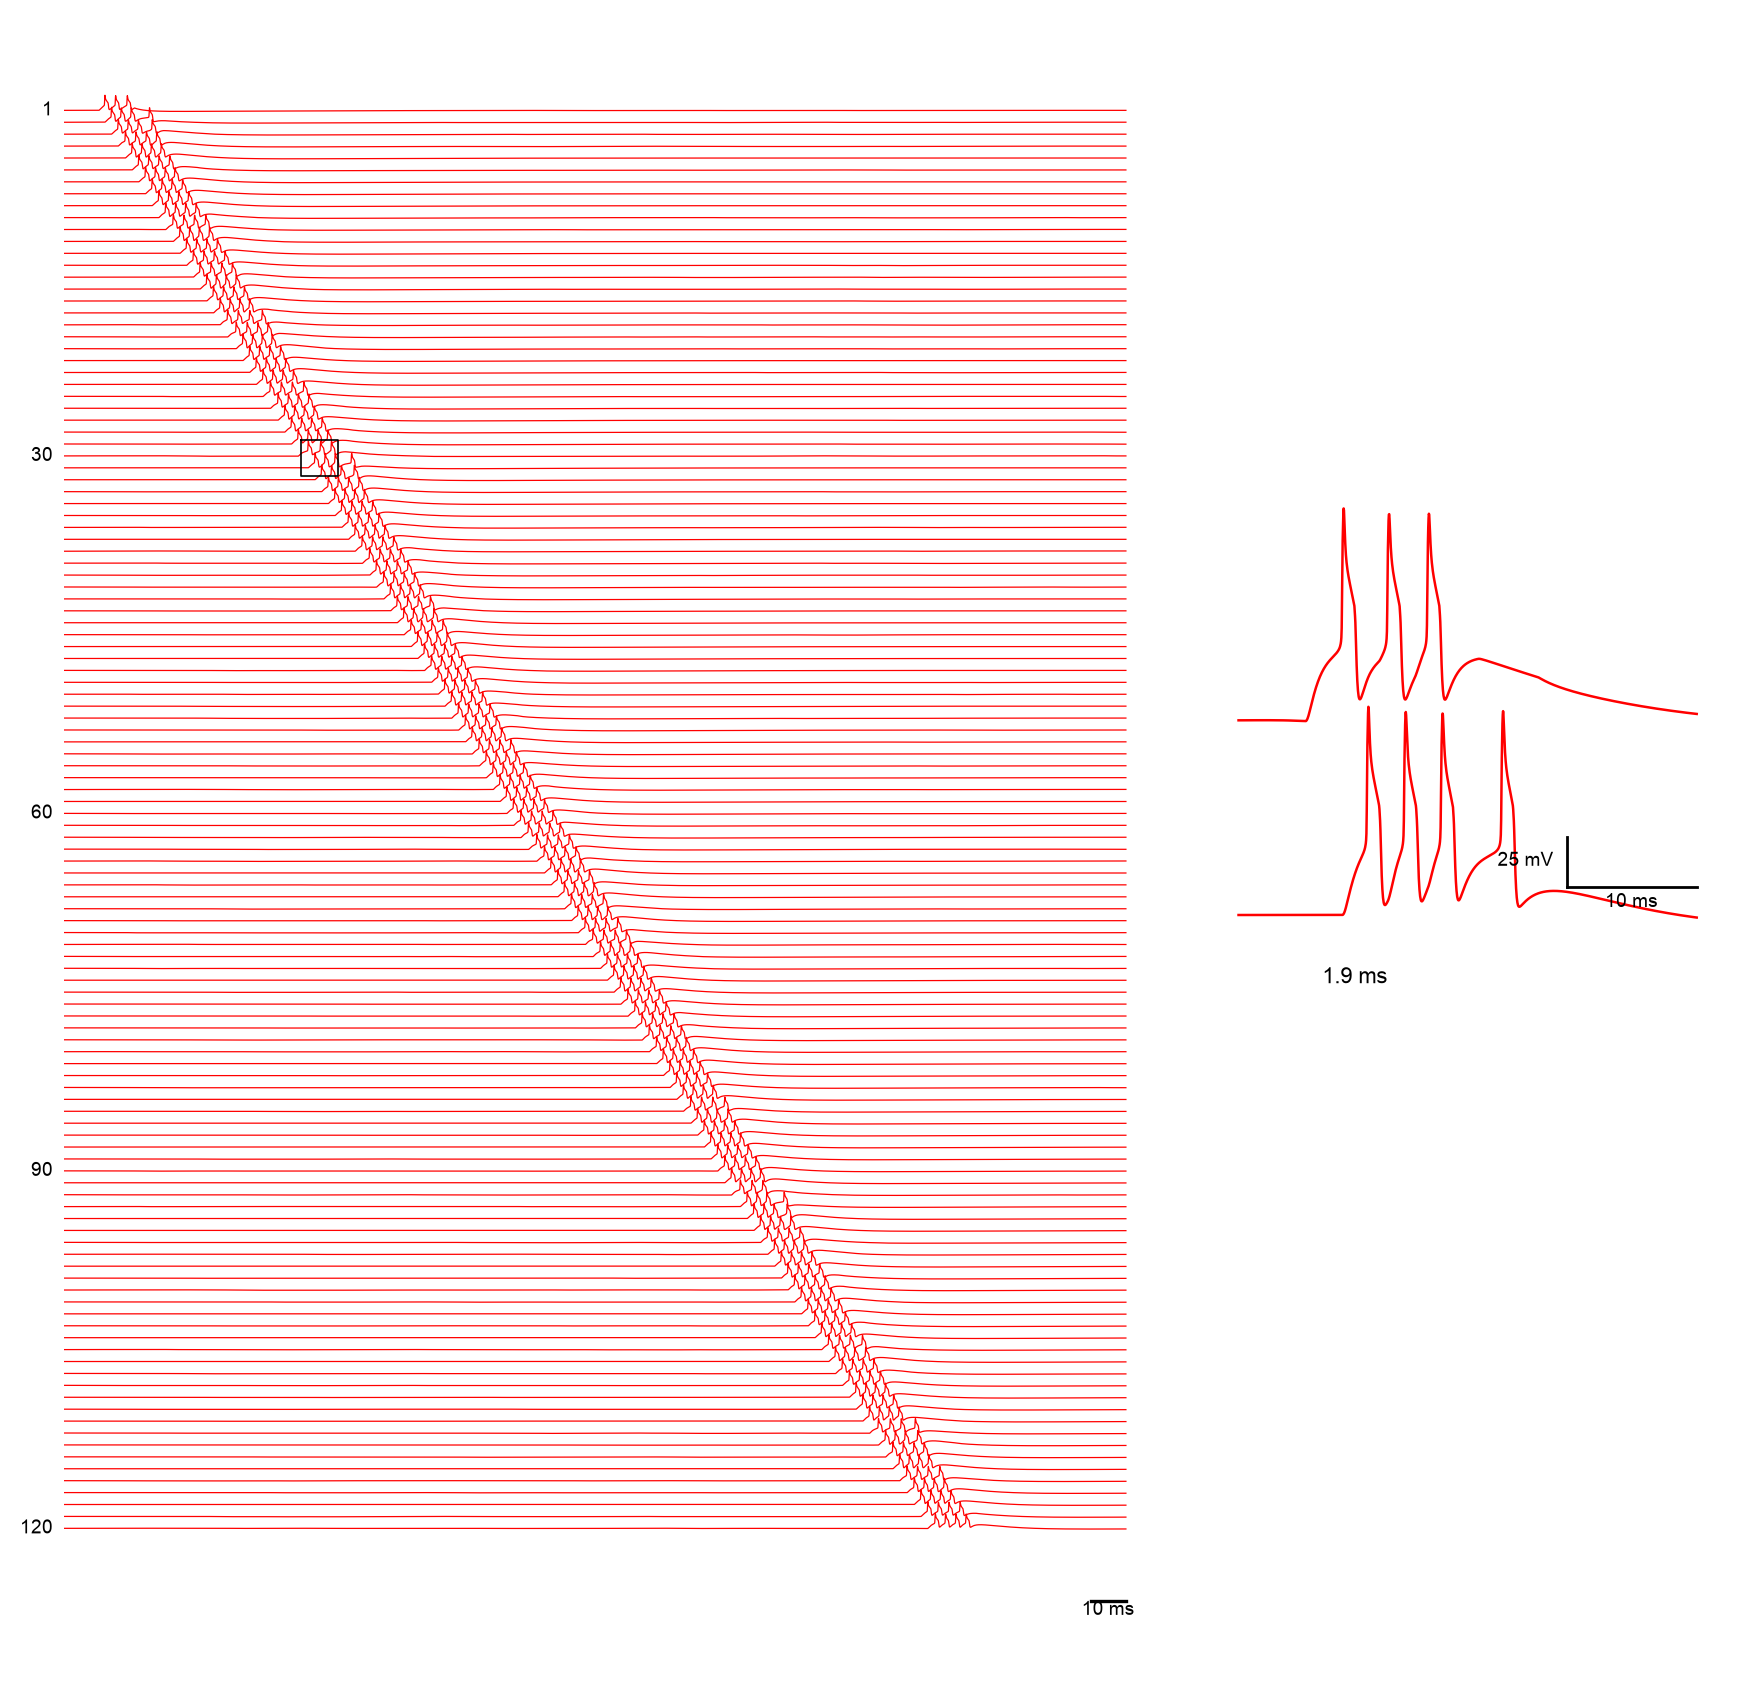
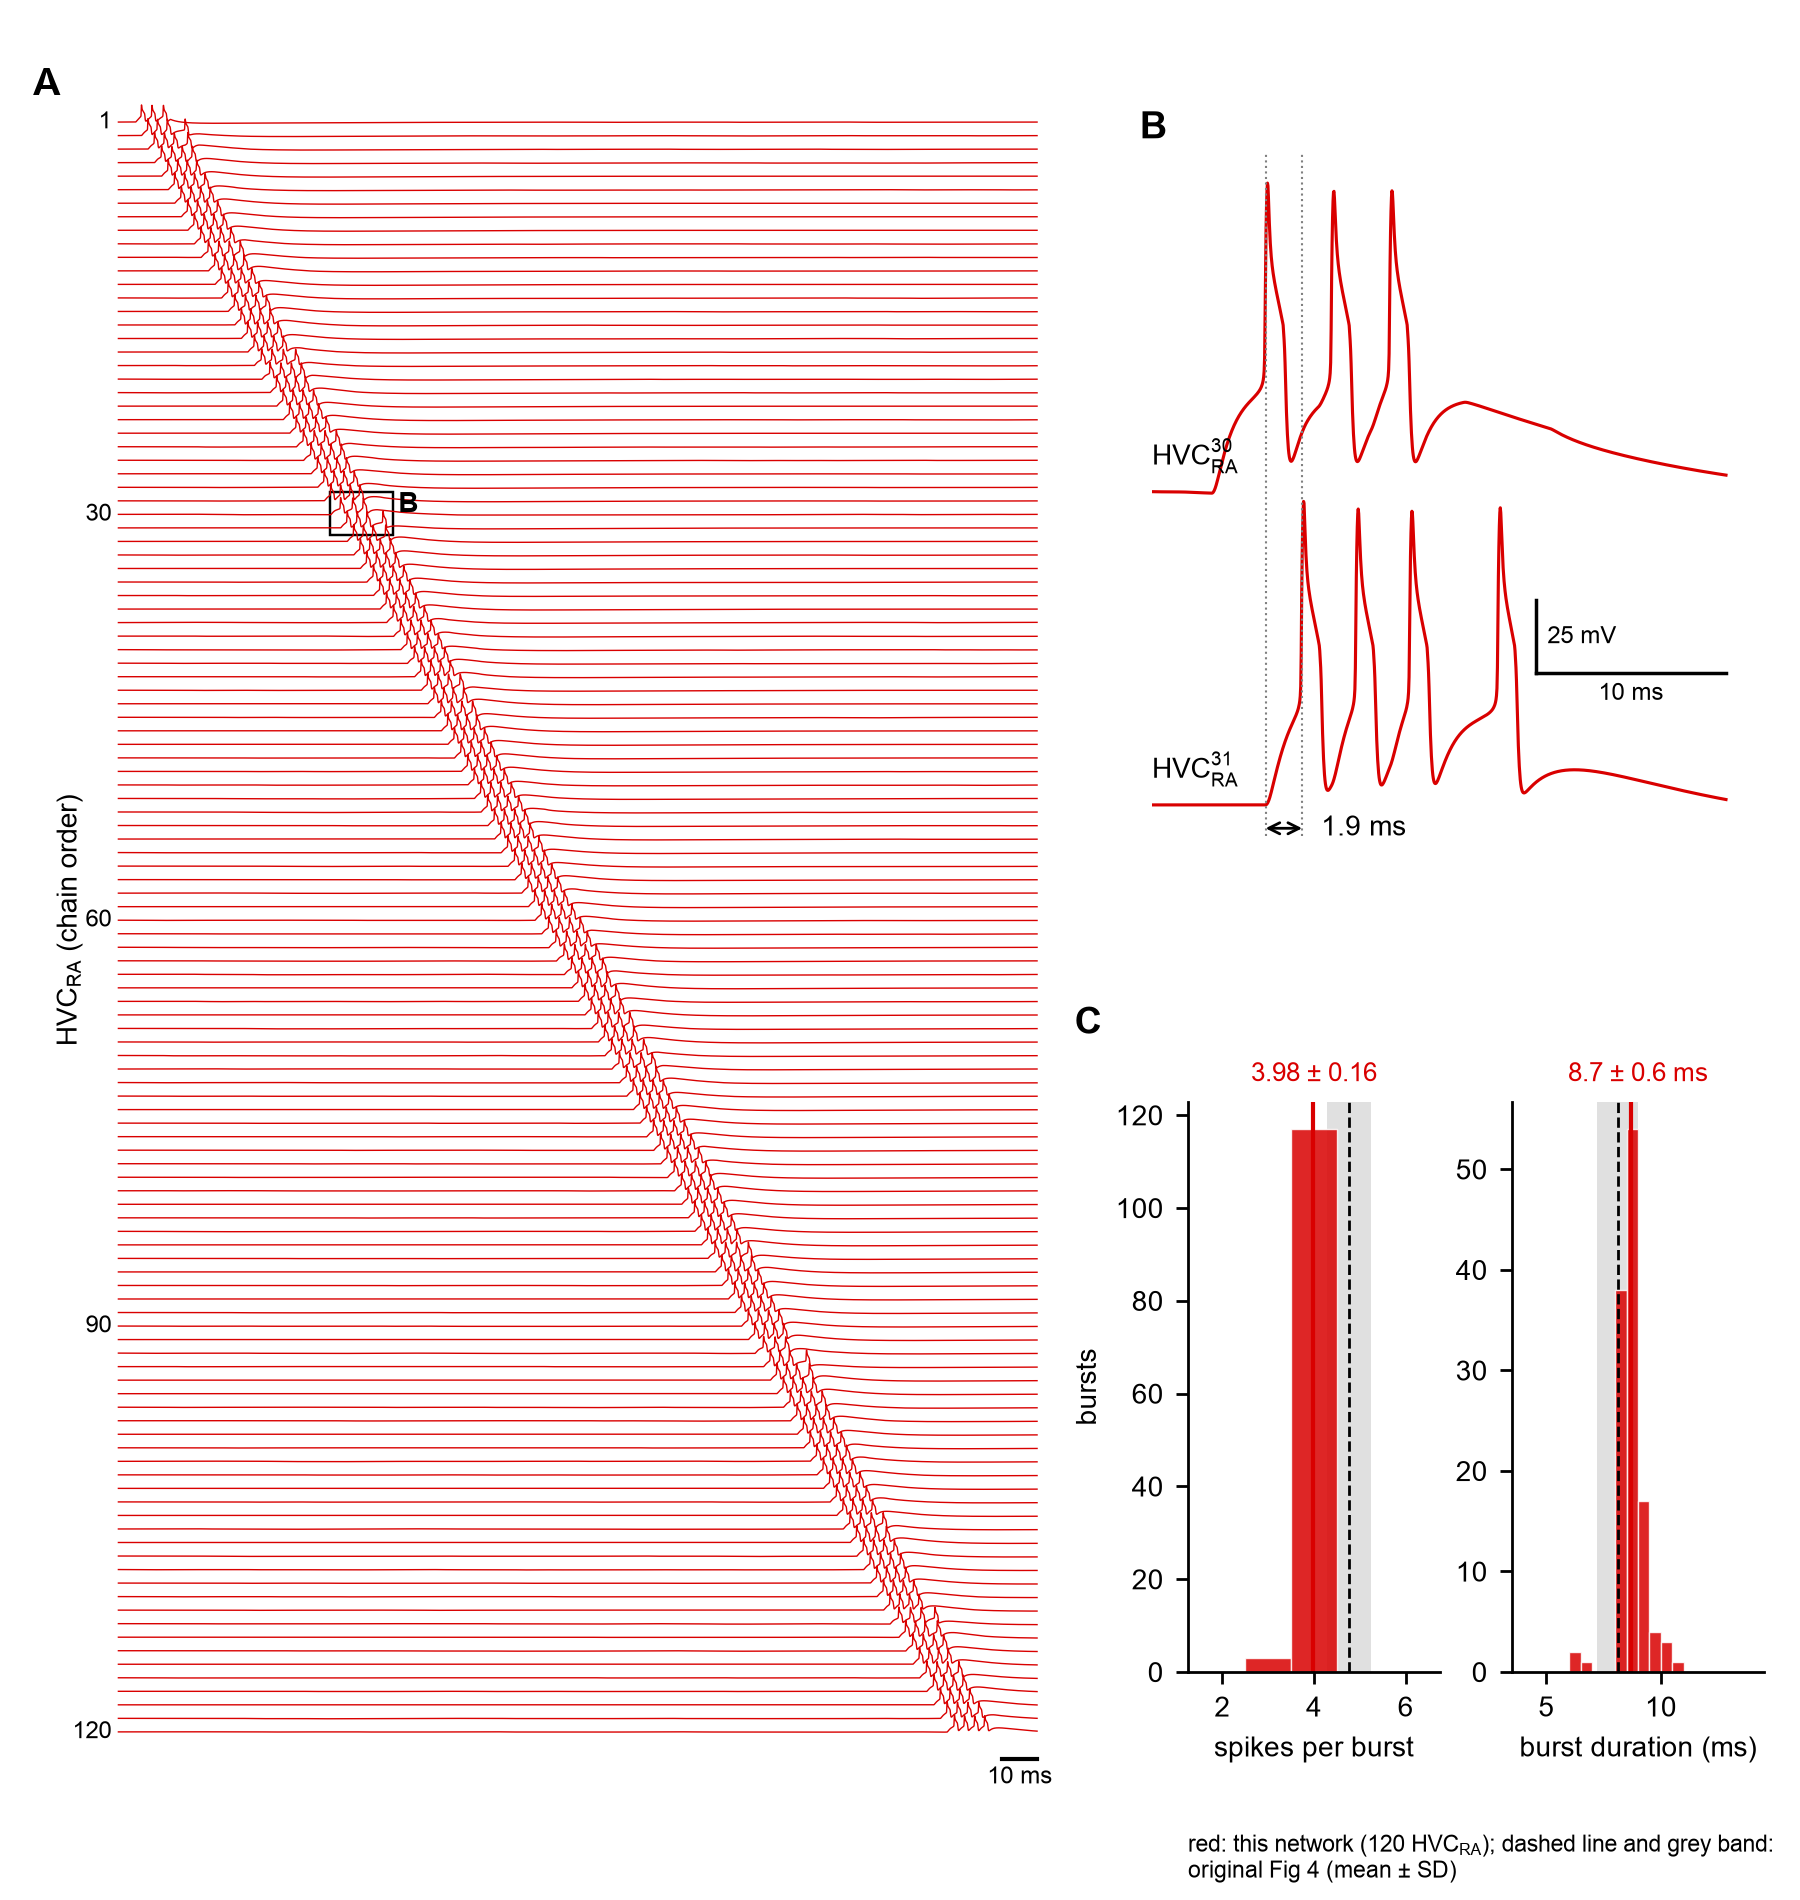
Fig 4: redraw for the article with the original's scale bars
- code/scripts/fig4_article.py draws replication_fig4.png: (A) 120 HVC_RA in chain order,
  10 ms scale bar as in the original; (B) neurons 30-31 with the first-spike delay and the
  original's 25 mV / 10 ms inset bars; (C) spikes per burst and burst duration against the
  original mean +- SD. Final configuration (Cm 20 pF), seed 0.
- article_figures.py no longer draws Fig 4, so a rerun does not overwrite it.
- Fig 4 caption and README command updated.

diff --git a/code/scripts/fig4_article.py b/code/scripts/fig4_article.py
@@ -1,0 +1,118 @@
+"""Article Fig 4 (cf. original Fig 4): the 120 HVC_RA in chain order after the start pulse, an
+enlargement of two successive neurons with the delay between their first spikes, and the burst
+statistics of this network against the original's mean +- SD.
+
+Final configuration (configs/final.json, Cm 20 pF), seed 0, start pulse 500 pA x 10 ms (I-07).
+Run from code/: ../.venv/bin/python -I scripts/fig4_article.py -> figures/replication_fig4.png
+"""
+import os
+import sys
+from pathlib import Path
+
+import matplotlib
+matplotlib.use("Agg")
+import matplotlib.pyplot as plt
+import numpy as np
+from matplotlib.patches import Rectangle
+
+HERE = Path(__file__).resolve().parent
+ROOT = HERE.parents[1]
+os.environ.setdefault("HVC_CONFIG", "configs/final.json")
+sys.path.insert(0, str(HERE)); sys.path.insert(0, str(HERE.parent))
+from calibrate_random import to_kwargs  # noqa: E402
+from phase1_seeds import CONFIG  # noqa: E402
+from hvcnet.analysis import bursts  # noqa: E402
+from hvcnet.evaluate import score, simulate  # noqa: E402
+
+RED = (0.85, 0.0, 0.0)
+ORIG = {"spikes": (4.76, 0.48), "dur": (8.12, 0.89)}
+plt.rcParams.update({"font.family": "Arial", "font.size": 8, "mathtext.default": "regular"})
+
+
+def main(seed=0, pair=(30, 31)):
+    net, r, sp = simulate(seed=seed, **to_kwargs(CONFIG))
+    s = score(net, sp)
+    t, V = r["t"], r["V"]
+    chain = [int(j) for j in net.chain_order()]
+    firsts = np.array([sp[j][0] for j in chain])
+    t0, t1 = 45.0, np.ceil((firsts[-1] + 20) / 10) * 10
+    win = (t >= t0) & (t <= t1)
+
+    fig = plt.figure(figsize=(7.2, 7.6))
+    ax = fig.add_axes([0.06, 0.06, 0.52, 0.89])
+    gap, vs = 3.0, 0.036                        # row spacing; mV -> rows (100 mV ~ 1.2 rows)
+    base = -gap * np.arange(len(chain))
+    for k, j in enumerate(chain):
+        ax.plot(t[win], (V[win, j] - V[win, j][0]) * vs + base[k], color=RED, lw=0.4)
+    for k in (1, 30, 60, 90, 120):
+        ax.text(t0 - 2, base[k - 1], str(k), ha="right", va="center", fontsize=7)
+    ax.text(t0 - 14, base[59], r"HVC$_{RA}$ (chain order)", rotation=90, ha="center", va="center")
+    ybar = base[-1] - 6
+    ax.plot([t1 - 10, t1], [ybar, ybar], "k", lw=1.2)          # 10 ms, as original Fig 4
+    ax.text(t1 - 5, ybar - 1.5, "10 ms", ha="center", va="top", fontsize=7)
+    ax.set_xlim(t0 - 3, t1 + 2); ax.set_ylim(ybar - 6, base[0] + 6)
+    ax.axis("off")
+    ax.text(-0.08, 1.0, "A", transform=ax.transAxes, fontweight="bold", fontsize=11)
+
+    # box around the enlarged pair
+    a, b = (chain[p - 1] for p in pair)
+    bx0, bx1 = sp[a][0] - 3, sp[b][-1] + 3
+    by0, by1 = base[pair[1] - 1] - 1.5, base[pair[0] - 1] + 5
+    ax.add_patch(Rectangle((bx0, by0), bx1 - bx0, by1 - by0, fill=False, lw=0.7, ec="k"))
+
+    # B: enlargement
+    ins = fig.add_axes([0.64, 0.56, 0.34, 0.36])
+    w = (t > sp[a][0] - 6) & (t < sp[b][-1] + 12)
+    off = 110.0
+    ins.plot(t[w], V[w, a] + off, color=RED, lw=0.9)
+    ins.plot(t[w], V[w, b], color=RED, lw=0.9)
+    ins.text(t[w][0], V[w, a][0] + off + 6, rf"HVC$_{{RA}}^{{{pair[0]}}}$", fontsize=8, va="bottom")
+    ins.text(t[w][0], V[w, b][0] + 6, rf"HVC$_{{RA}}^{{{pair[1]}}}$", fontsize=8, va="bottom")
+    d = sp[b][0] - sp[a][0]
+    for x in (sp[a][0], sp[b][0]):
+        ins.axvline(x, color="0.5", lw=0.6, ls=":")
+    ya = V[w, b].min() - 8
+    ins.annotate("", xy=(sp[b][0], ya), xytext=(sp[a][0], ya),
+                 arrowprops=dict(arrowstyle="<->", lw=0.8, shrinkA=0, shrinkB=0))
+    ins.text(sp[b][0] + 1, ya, f"{d:.1f} ms", ha="left", va="center", fontsize=8)
+    # scale bars as in the original inset: 25 mV (vertical) and 10 ms (horizontal), L-shaped
+    xs = t[w][-1] - 10
+    ys = V[w, b].min() + 45
+    ins.plot([xs, xs], [ys, ys + 25], "k", lw=1)
+    ins.plot([xs, xs + 10], [ys, ys], "k", lw=1)
+    ins.text(xs + 0.6, ys + 12.5, "25 mV", ha="left", va="center", fontsize=7)
+    ins.text(xs + 5, ys - 3, "10 ms", ha="center", va="top", fontsize=7)
+    ins.set_xlim(t[w][0], t[w][-1] + 2)
+    ins.axis("off")
+    ins.text(-0.02, 1.02, "B", transform=ins.transAxes, fontweight="bold", fontsize=11)
+    ax.text(bx1 + 1.5, by1, "B", fontweight="bold", fontsize=8, va="top")
+
+    # C: burst statistics of this network vs the original
+    B = [bb for j in chain for bb in bursts(sp[j])]
+    n_sp = np.array([len(bb) for bb in B]); dur = np.array([bb[-1] - bb[0] for bb in B])
+    for i, (vals, key, lab, bins) in enumerate((
+            (n_sp, "spikes", "spikes per burst", np.arange(1.5, 7.5, 1.0)),
+            (dur, "dur", "burst duration (ms)", np.arange(4, 14.01, 0.5)))):
+        c = fig.add_axes([0.66 + i * 0.18, 0.12, 0.14, 0.3])
+        m, sd = ORIG[key]
+        c.axvspan(m - sd, m + sd, color="0.88", lw=0)
+        c.axvline(m, color="k", lw=0.8, ls="--")
+        c.hist(vals, bins=bins, color=RED, alpha=0.85, edgecolor="w", lw=0.4)
+        c.axvline(vals.mean(), color=RED, lw=1.2)
+        c.set_xlabel(lab)
+        c.spines[["top", "right"]].set_visible(False)
+        c.set_title(f"{vals.mean():.2f} ± {vals.std():.2f}" if key == "spikes"
+                    else f"{vals.mean():.1f} ± {vals.std():.1f} ms", fontsize=7.5, color=RED)
+        if i == 0:
+            c.set_ylabel("bursts")
+            c.text(-0.45, 1.12, "C", transform=c.transAxes, fontweight="bold", fontsize=11)
+    fig.text(0.66, 0.035, "red: this network (120 HVC$_{RA}$); dashed line and grey band:\n"
+             "original Fig 4 (mean ± SD)", fontsize=6.5, va="top")
+
+    out = ROOT / "figures" / "replication_fig4.png"
+    fig.savefig(out, dpi=250)
+    print(out, f"delay {d:.2f} ms;", {k: s[k] for k in ("ra_spikes", "ra_dur", "ra_ok", "link_ms")})
+
+
+if __name__ == "__main__":
+    main()

diff --git a/article/content.tex b/article/content.tex
@@ -324,9 +324,11 @@ bars as in the original panels. Postsynaptic spikes taller than three scale bars
 
 \begin{figure}[p]\centering
 \includegraphics[width=0.85\linewidth]{figures/replication_fig4.png}
-\caption{(cf.\ original Fig.~4) Membrane potential of the 120 HVC\textsubscript{RA}, in chain
-order, after a pulse into the first neuron (seed 0). Inset: two successive neurons (boxed) and
-the delay between their first spikes.}
+\caption{(cf.\ original Fig.~4) (A) Membrane potential of the 120 HVC\textsubscript{RA}, in chain
+order, after a 500\,pA, 10\,ms pulse into the first neuron (final configuration, $C_m=20$\,pF,
+network 1 of 50). (B) Enlargement of the boxed neurons 30 and 31 and the delay between their
+first spikes. (C) Spikes per burst and burst duration of the 120 bursts in A (red line: mean)
+against the original (dashed line: mean; grey: $\pm$1 SD).}
 \label{fig:4}\end{figure}
 
 \begin{figure}[p]\centering

diff --git a/code/scripts/article_figures.py b/code/scripts/article_figures.py
@@ -380,7 +380,7 @@ if __name__ == "__main__":
         net, r, sp = simulate(seed=0, per_neuron={attr[key]: {idx: ("mul", float(factor))}}, **kw)
         out[key] = (net, {"t": r["t"], "V": r["V"]}, sp)
     base = out["base"]
-    fig2(); fig4(base); fig5(); fig6(out, picks); fig7(base); fig8(base); fig9(out, picks)
+    fig2(); fig5(); fig6(out, picks); fig7(base); fig8(base); fig9(out, picks)  # Fig 4: scripts/fig4_article.py
     fig10(base); fig11(out, picks)
     # rebuild the Fig 12 example with the same per-neuron X draws as fig12.job (same RNG order)
     k = ex["run"]

diff --git a/README.md b/README.md
@@ -53,7 +53,7 @@ cd code && ../.venv/bin/python -I scripts/fig12.py && ../.venv/bin/python -I scr
 ../.venv/bin/python -I scripts/fig4_mp_test.py && ../.venv/bin/python -I scripts/fig4_burst_isi.py
 ../.venv/bin/python -I scripts/fig4_cm_grid.py && ../.venv/bin/python -I scripts/fig4_cm_network.py
 ../.venv/bin/python -I scripts/fig4_cm_network_grid.py && ../.venv/bin/python -I scripts/fig4_cm16_confirm.py
-../.venv/bin/python -I scripts/fig4_tradeoff_plot.py
+../.venv/bin/python -I scripts/fig4_tradeoff_plot.py && ../.venv/bin/python -I scripts/fig4_article.py  # article Fig 4
 ../.venv/bin/python -I scripts/make_figures.py
 ../.venv/bin/python -I scripts/daou13_xcell.py   # needs Daou 2013 XPP files in reference/
 ```
